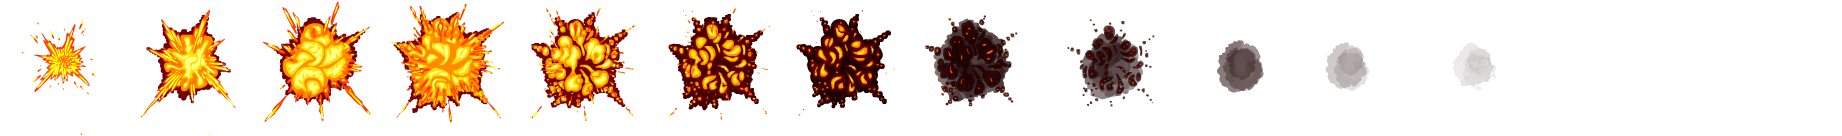
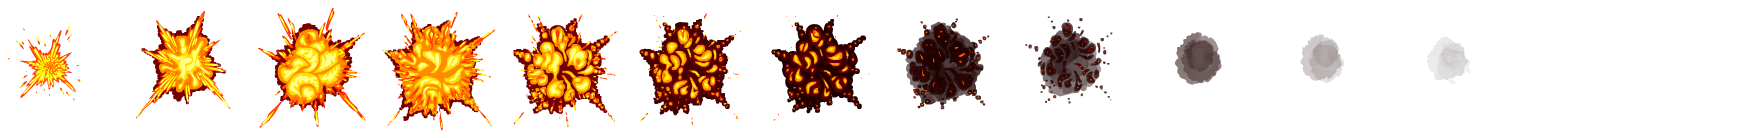
FIX - colision con enemigo

Changed region(s): [[0.0, 0.0588, 0.6236, 0.9118], [0.6548, 0.2353, 0.8418, 0.6765]]

diff --git a/Trabajos-Practicos/TP4/js/juego.js b/Trabajos-Practicos/TP4/js/juego.js
@@ -8,7 +8,9 @@ class Juego{
         this.limiteSuperior = 420;
         this.limiteInferior = 0;
         this.jugando = false;
-        this.iterador1 = 0;
+        this.resultado = {'perdio':false, 'gano':false};
+        this.partidasGanadas = 0;
+        this.partidasPerdidas = 0;
 
         this.movimientos = {'ArrowDown':false, 'ArrowUp':false, 'ArrowLeft':false, 'ArrowRigth':false};
         this.direccionActual = '';
@@ -37,11 +39,26 @@ class Juego{
         this.background.append(this.naveJugador.getNave());
     }
 
+    quitarNaveJugador(){
+        this.naveJugador.getNave().remove();
+    }
+
     iniciarJuego(){
         this.intervalo = setInterval(() => {
-            this.moverNave();
+            if(this.jugando)
+                this.moverNave();
+            else
+                this.finalizarJuego();
         }, 35);
         this.agregarNavesEnemigas();
+    }
+
+    finalizarJuego(){
+        var intervaloFinalizacion = setInterval(()=>{
+            this.animaciones.finalizarAnimacionFondo();
+            this.quitarNaveJugador();
+            clearInterval(intervaloFinalizacion);
+        },2000);
     }
 
     setMovimientosJugador(){
@@ -59,15 +76,17 @@ class Juego{
     }
 
     agregarNavesEnemigas(){
-        this.creacionNavesEnemigas = setInterval(() => {
+        var creacionNavesEnemigas = setInterval(() => {
 
 
             //Segun el nivel, crear la cantidad de naves this.cantidadNavesEnemigas?
-
-            var idNaveEnemiga = this.crearEnemigo();            
-            this.quitarNaveEnemiga(idNaveEnemiga);
-
-
+            if(this.jugando){
+                var idNaveEnemiga = this.crearEnemigo();            
+                this.quitarNaveEnemiga(idNaveEnemiga);
+            }
+            else
+               clearInterval(creacionNavesEnemigas); 
+     
         }, 500);  
     }
 
@@ -81,17 +100,17 @@ class Juego{
     }
 
     chequearColisiones(){
-        this.detectorColisiones = setInterval(() => {
+        var detectorColisiones = setInterval(() => {
             for (const naveEnemiga in this.navesEnemigas) {
                 var nave = this.navesEnemigas[naveEnemiga];
                 var hayColision = this.comprobarColision(nave);
                 if(hayColision){
-                    //finaliza juego
                     this.animaciones.destruccionNaveJugador();
-
+                    this.resultado.perdio = true;
+                    this.jugando = false;
+                    clearInterval(detectorColisiones);
                 }
             }
-
         }, 50); 
     }
 
@@ -100,11 +119,10 @@ class Juego{
             'x' : Math.round(nave.getPosicionNave().posX),
             'y' : Math.round(nave.getNave().getBoundingClientRect().y)
         }
-         
     }
 
     comprobarColision(naveEnemiga){
-        var posicionNaveEnemiga = this.getPosicion(naveEnemiga); //.getBoundingClientRect();
+        var posicionNaveEnemiga = this.getPosicion(naveEnemiga); 
         var posicionNaveJugador = this.getPosicion(this.naveJugador);
         var hayColision = false;
       

diff --git a/Trabajos-Practicos/TP4/css/digitalGames.css b/Trabajos-Practicos/TP4/css/digitalGames.css
@@ -33,31 +33,28 @@
     100% {
         background-position: -290px 0px;
     }
-    
 }
 
-@keyframes destroyShip{
+@keyframes downShip{
     25% {
-        transform: rotate(180deg) scale3D(0.7, 0.7, 159);
+        transform: scale3D(0.7, 0.7, 159);
     }
-    
-    50% {
-        transform: rotate(360deg) scale3D(0.1, 0.1, 2);
+    100% {
+        transform: scale3D(0, 0, 0);
     }
 }
 
 @keyframes explodeShip{
     100%{
-        background-position: -1000px 0px;
+        background-position: -935px 0px;
     }
 }
 
 #paralax-background-content{
     margin: 100px 0 0 100px;
-    /* float: left; */
     width: 1000px;
     height: 520px;
-    background-image: url("../images/desertBackground2.jpg");
+    background-image: url("../images/desertBackground.jpg");
     background-size: 1000px auto;
     background-repeat: repeat-y;
     background-position: 0px 0px;
@@ -93,8 +90,10 @@
 
 #naveJugador.cayendo{
     background-image: url("../images/explosion.png");
-    background-size: 1000px 70px;
-    animation: destroyShip linear 2s 1, explodeShip 3s 1s steps(14) infinite;
+    background-size: 935px 100px;
+    width: 65px;
+    height: 90px;
+    animation:  explodeShip 2s steps(14) 1, downShip linear 2s 1;
 }
 
 .enemigo{

diff --git a/Trabajos-Practicos/TP4/js/nave.js b/Trabajos-Practicos/TP4/js/nave.js
@@ -1,6 +1,8 @@
 class Nave{
     constructor(posX, posY, esHumano = false){
         this.nave = document.createElement('div');
+        this.posicionInicialX = posX;
+        this.posicionInicialY = posY;
         this.posX = posX;
         this.posY = posY;
         this.movimientoJugador = 15;
@@ -12,18 +14,15 @@ class Nave{
     }
 
     setPosicionInicial(id){
-        if(this.esHumano) {
-            this.nave.classList.add('volando');
-        }
-        else{
-            this.nave.classList.add('enemigo');
-        }
 
+        if(!this.esHumano) 
+            this.nave.classList.add('enemigo');
+        
         this.nave.id = id;
         this.nave.width = '20px';
         this.nave.height = '20px';
-        this.nave.style.bottom = this.posY+'px';
-        this.nave.style.left = this.posX+'px';
+        this.nave.style.bottom = this.posicionInicialY+'px';
+        this.nave.style.left = this.posicionInicialX+'px';
     }
 
     moverHorizontal(direccion){

diff --git a/Trabajos-Practicos/TP4/js/animacion.js b/Trabajos-Practicos/TP4/js/animacion.js
@@ -17,12 +17,14 @@ class Animacion{
     }
 
     agregarMovimientoNave(direccion){
-        this.nave.classList.remove('volando');
 
         if(direccion === "ArrowLeft")
             this.nave.classList.add('izquierda');
         else if (direccion === "ArrowRight")
             this.nave.classList.add('derecha');
+        else if(direccion !== "ArrowUp" && direccion !== "ArrowDown"){
+            this.nave.classList.add('volando');
+        }
     }
 
     eliminarMovimientoNave(){
